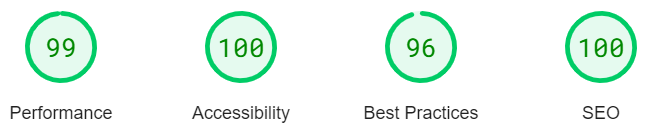
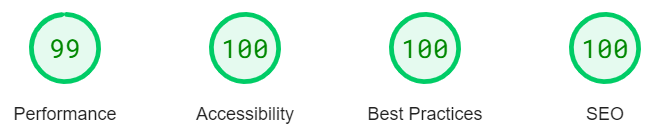
Updated google lighthouse scores for all pages

diff --git a/README.md b/README.md
@@ -171,6 +171,13 @@ The about page 'Best Practices' section is showing a depreciated API error relat
 ##### Desktop
 ![Contact Desktop](assets/images/readme/testing/lighthouse/lighthouse-contact-desk.png)
 
+#### Contact Complete
+##### Mobile
+![Contact Complete Mobile](assets/images/readme/testing/lighthouse/lighthouse-contact-complete-desk.png)
+
+##### Desktop
+![Contact Complete Desktop](assets/images/readme/testing/lighthouse/lighthouse-contact-complete-desk.png)
+
 ### Browser Compatibility
 #### Chrome
 ##### Desktop
